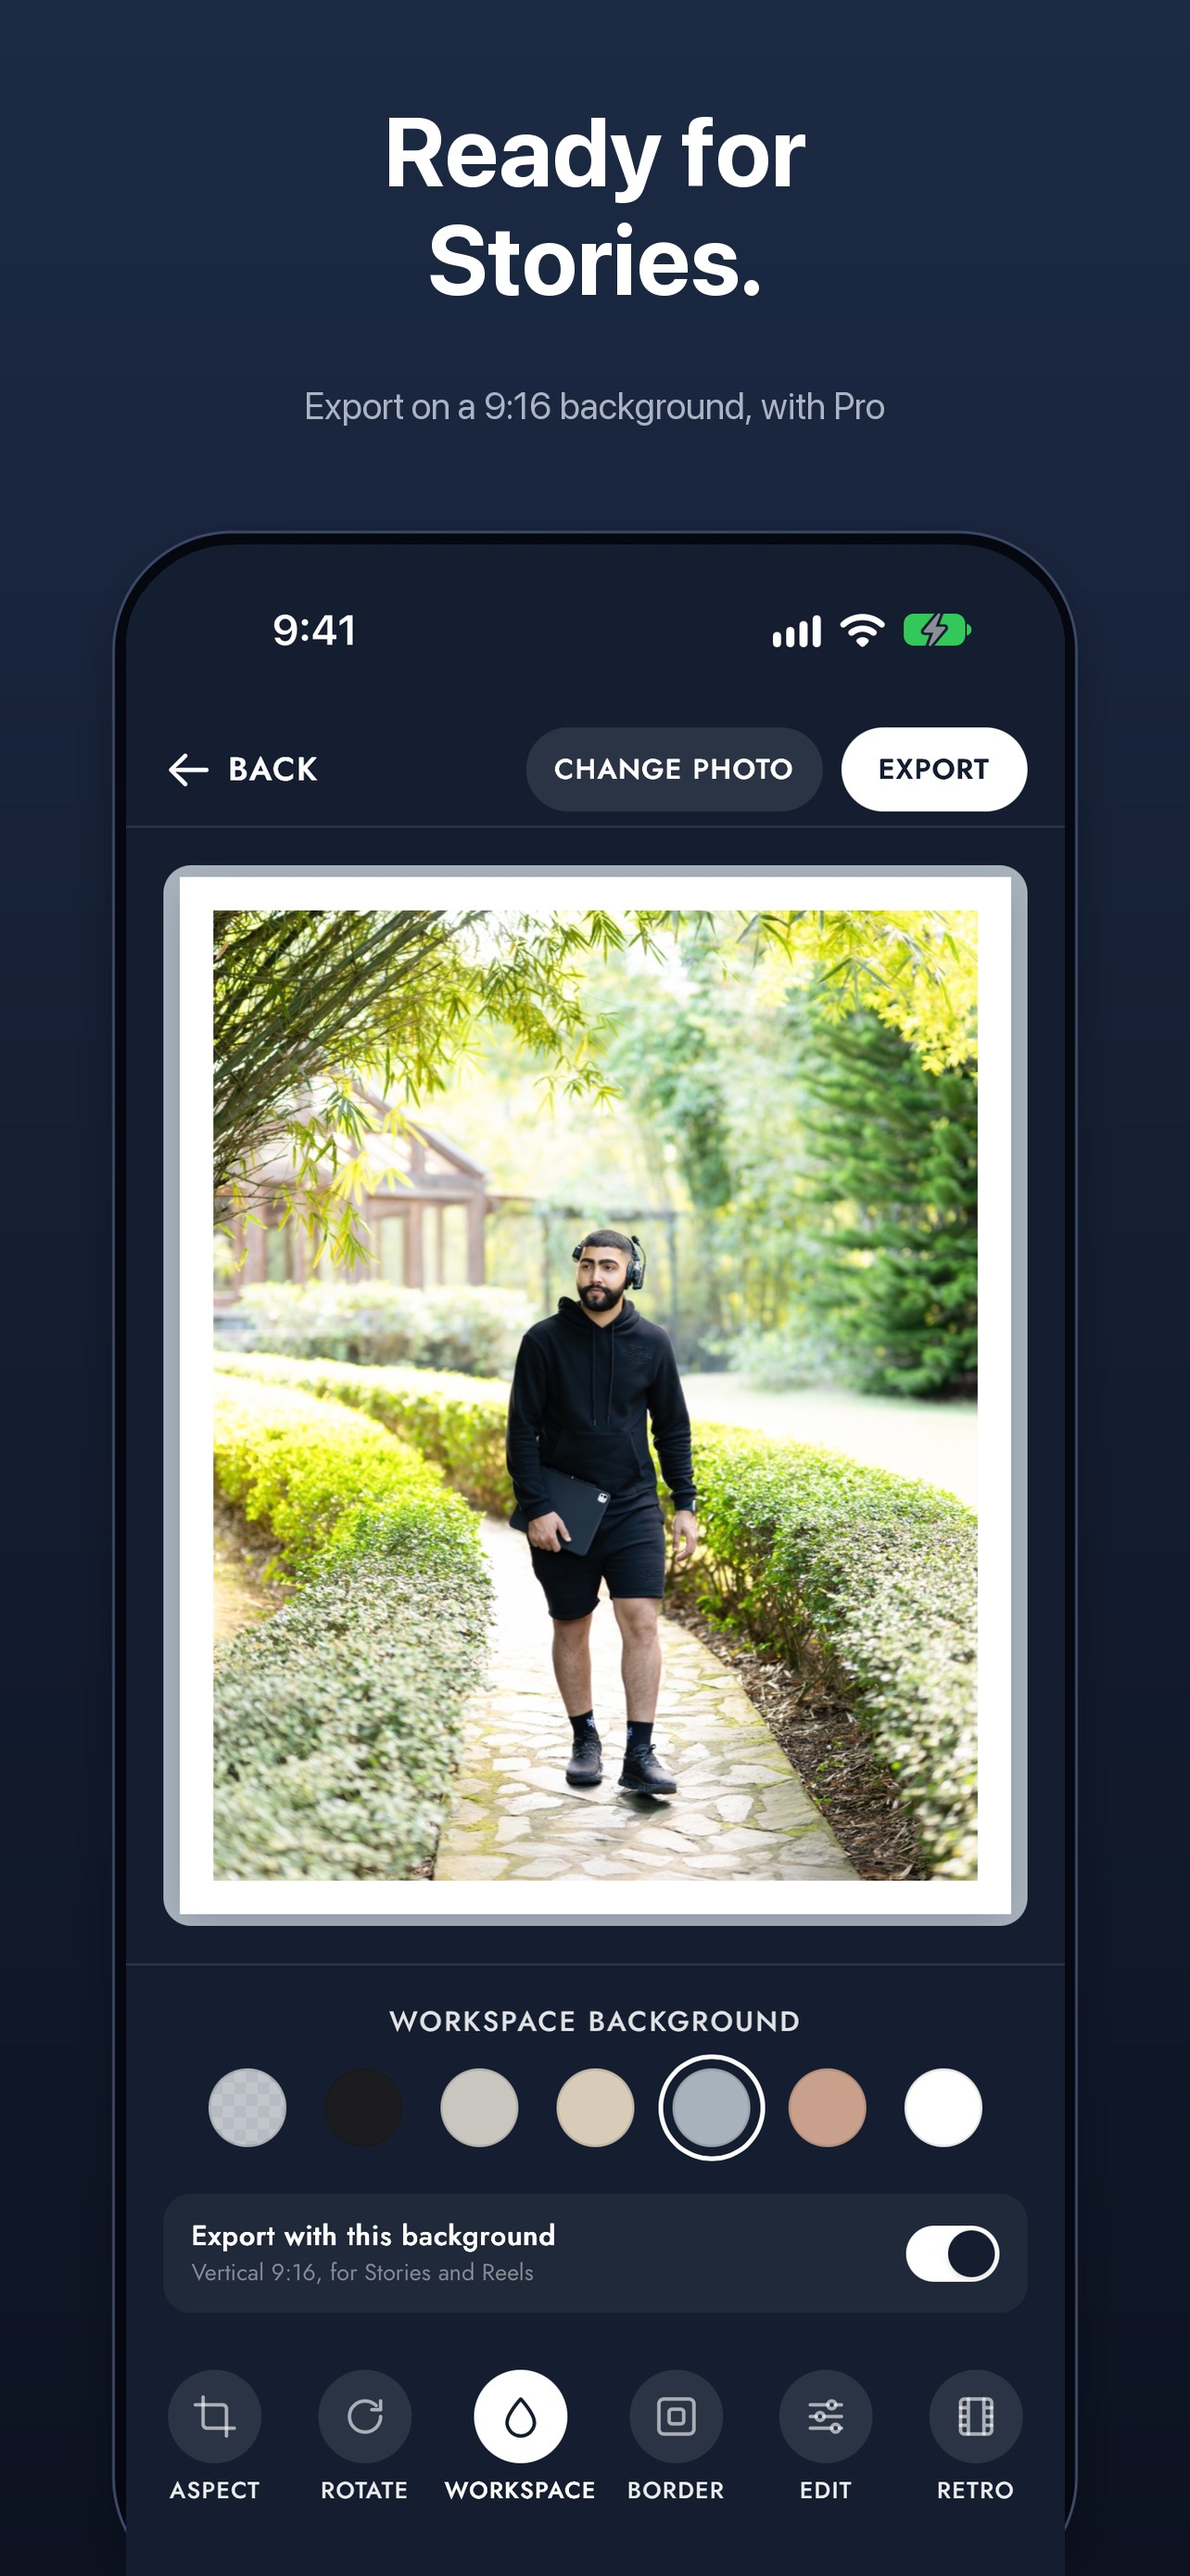
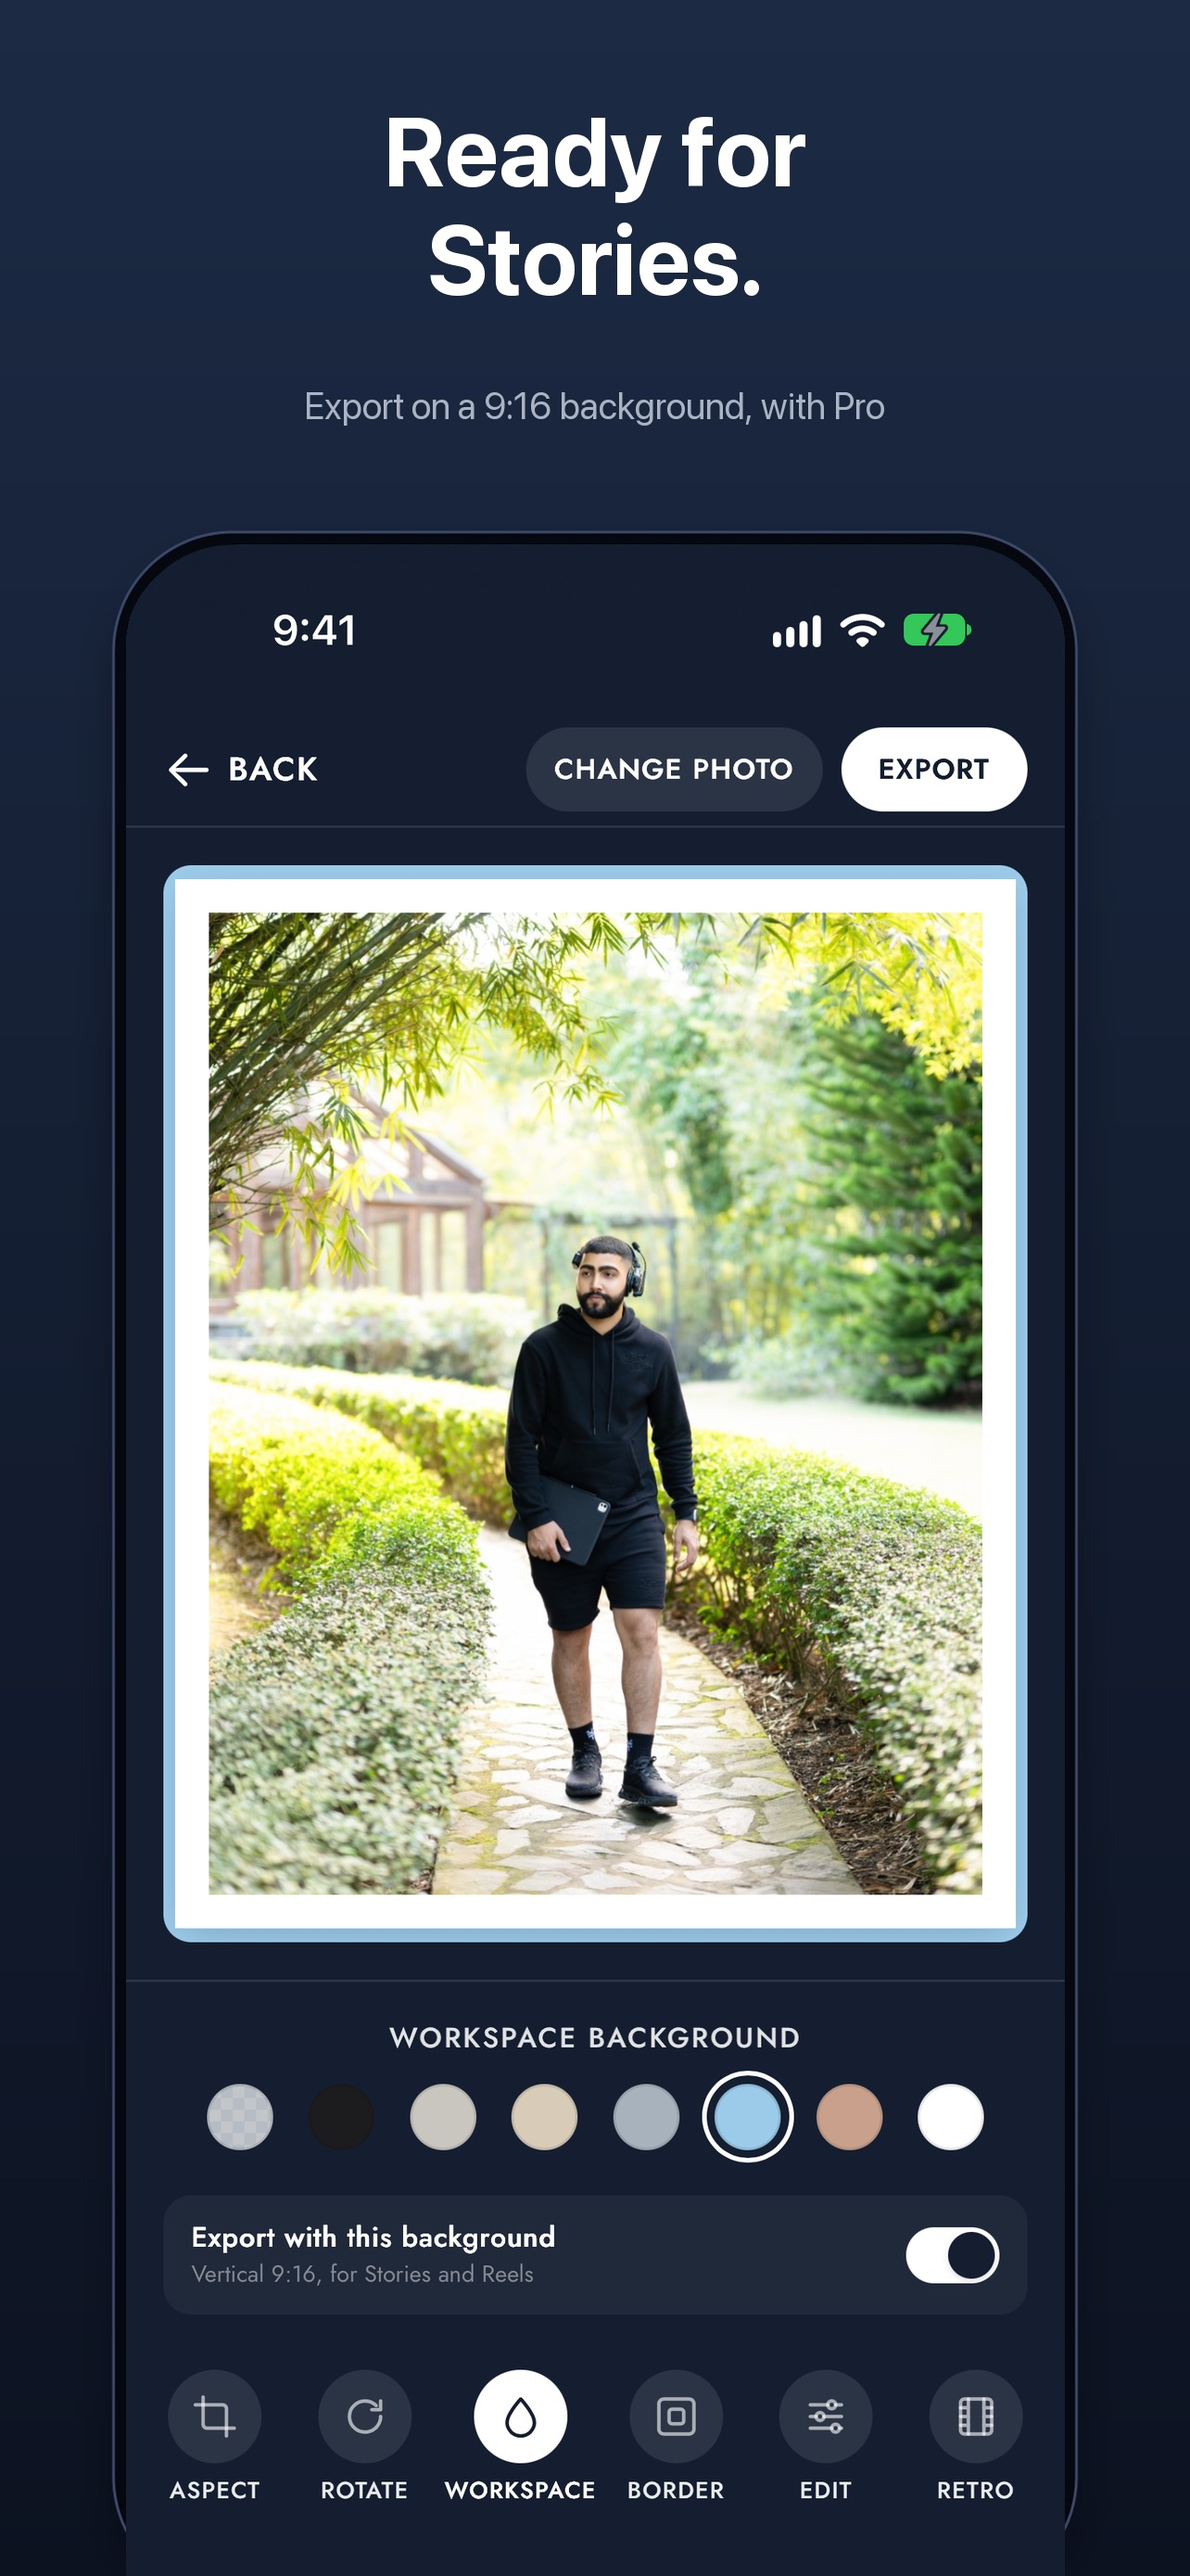
Stories pair in the tour and store screenshots; Sky background; build 24
- New "Sky" workspace background colour.
- Tour: "Ready for Stories" (the toggle switching on over sky blue)
  followed by "Here's how it looks" (the finished 9:16 Story).
- Store screenshots: the same pair, the second composed from the
  export geometry onto sky blue.

diff --git a/src/components/WelcomeTour.tsx b/src/components/WelcomeTour.tsx
@@ -180,15 +180,69 @@ function RetroArt() {
   )
 }
 
-/** A finished photo on a 9:16 story background that keeps changing colour,
- *  over the export qualities. */
+/** Sky blue — the "Cielo" workspace background the Stories cards show. */
+const SKY = '#9ccbea'
+
+/** The Fondo panel in miniature: the photo on the sky-blue workspace, the
+ *  colour picked, and "Export with this background" switching on. */
+function StoryToggleArt() {
+  const tr = useTranslation()
+  const swatches = ['#1c1c1e', '#c9c6c0', '#d8cbb8', '#a7b2bd', SKY, '#c9a08c', '#ffffff']
+  return (
+    <div className="flex h-full w-full flex-col items-center justify-center gap-3">
+      <div className="flex aspect-[4/5] w-[62%] items-center justify-center rounded-xl shadow-2xl shadow-black/40" style={{ backgroundColor: SKY }}>
+        <Print name="garden" className="aspect-[4/5] w-[72%]" />
+      </div>
+      <div className="flex gap-1.5">
+        {swatches.map((c) => (
+          <span
+            key={c}
+            className={`h-5 w-5 rounded-full border border-black/10 ${c === SKY ? 'ring-2 ring-white ring-offset-2 ring-offset-ink-900' : ''}`}
+            style={{ backgroundColor: c }}
+          />
+        ))}
+      </div>
+      <div className="flex w-[78%] items-center justify-between gap-3 rounded-xl bg-white/5 px-3 py-2">
+        <span className="flex flex-col">
+          <span className="font-label text-[11px] font-semibold text-white">{tr.pickers.exportWithBackground}</span>
+          <span className="font-label text-[9px] text-white/45">{tr.pickers.exportWithBackgroundHint}</span>
+        </span>
+        <span className="tour-switch relative h-5 w-9 shrink-0 rounded-full">
+          <span className="tour-knob absolute top-0.5 h-4 w-4 rounded-full shadow" />
+        </span>
+      </div>
+    </div>
+  )
+}
+
+/** What comes out: a 9:16 Story, sky-blue background all round the photo,
+ *  with a Story's progress bars along the top. */
+function StoryResultArt() {
+  return (
+    <div className="flex h-full w-full items-center justify-center">
+      <div
+        className="tour-rise relative flex aspect-[9/16] h-[92%] items-center justify-center overflow-hidden rounded-2xl shadow-2xl shadow-black/60 ring-1 ring-white/10"
+        style={{ backgroundColor: SKY }}
+      >
+        <div className="absolute inset-x-2.5 top-2.5 flex gap-1">
+          {[1, 0.55, 0].map((fill, i) => (
+            <span key={i} className="h-0.5 flex-1 overflow-hidden rounded-full bg-white/45">
+              <span className="block h-full bg-white" style={{ width: `${fill * 100}%` }} />
+            </span>
+          ))}
+        </div>
+        <Print name="garden" pad="4%" className="aspect-[4/5] w-[91%]" />
+      </div>
+    </div>
+  )
+}
+
+/** A finished print over the three export qualities, the Pro one marked. */
 function ExportArt() {
   const tr = useTranslation()
   return (
-    <div className="flex h-full w-full flex-col items-center justify-center gap-4">
-      <div className="tour-story flex aspect-[9/16] h-[78%] items-center justify-center rounded-xl shadow-2xl shadow-black/50">
-        <Print name="evening" className="aspect-[4/5] w-[86%]" />
-      </div>
+    <div className="flex h-full w-full flex-col items-center justify-center gap-5">
+      <Print name="evening" className="aspect-[4/5] w-[58%]" />
       <div className="flex gap-1.5">
         {[tr.quality.native.label, tr.quality.high.label, tr.quality.web.label].map((q, i) => (
           <span
@@ -213,6 +267,8 @@ const ART: ReactNode[] = [
   <EditArt key="e" />,
   <DetailArt key="d" />,
   <RetroArt key="r" />,
+  <StoryToggleArt key="st" />,
+  <StoryResultArt key="sr" />,
   <ExportArt key="x" />,
 ]
 

diff --git a/src/lib/translations.ts b/src/lib/translations.ts
@@ -106,6 +106,14 @@ export const translations = {
           body: 'Our own film looks — warm portrait film, soft pastels, grainy black and white — previewed on your photo, at the strength you choose.',
         },
         {
+          title: 'Ready for Stories',
+          body: 'Pick a background colour and turn on “Export with this background”: your photo comes out vertical 9:16, ready for Stories and Reels.',
+        },
+        {
+          title: 'Here’s how it looks',
+          body: 'Your photo and its border, centred on the background — nothing cropped, at full quality.',
+        },
+        {
           title: 'Export at full quality',
           body: 'Save at your camera’s native resolution, or lighter for sharing. With Pro: maximum quality, Edit, Retro, any border colour, a 9:16 background for Stories and batches of up to 15.',
         },
@@ -279,6 +287,7 @@ export const translations = {
       pearl: 'Pearl',
       beige: 'Beige',
       mist: 'Mist',
+      sky: 'Sky',
       terracotta: 'Terracotta',
       checkered: 'No background',
     },
@@ -380,6 +389,14 @@ export const translations = {
         {
           title: 'Estilos Retro',
           body: 'Looks de película creados por nosotros — retrato cálido, pasteles suaves, blanco y negro con grano — vistos sobre tu foto, con la intensidad que quieras.',
+        },
+        {
+          title: 'Listo para Historias',
+          body: 'Elige un color de fondo y activa «Exportar con este fondo»: tu foto sale en vertical 9:16, lista para Historias y Reels.',
+        },
+        {
+          title: 'Así queda',
+          body: 'Tu foto con su borde, centrada sobre el fondo — sin recortes y en máxima calidad.',
         },
         {
           title: 'Exporta en máxima calidad',
@@ -555,6 +572,7 @@ export const translations = {
       pearl: 'Perla',
       beige: 'Beige',
       mist: 'Bruma',
+      sky: 'Cielo',
       terracotta: 'Terracota',
       checkered: 'Sin fondo',
     },

diff --git a/src/index.css b/src/index.css
@@ -269,35 +269,66 @@ textarea {
   animation: tour-dial 3.6s ease-out infinite;
 }
 
-/* The 9:16 background cycling through the workspace colours. */
-@keyframes tour-story {
+/* "Export with this background" switching on, holding, and resetting. */
+@keyframes tour-switch {
   0%,
+  20% {
+    background-color: rgba(255, 255, 255, 0.2);
+  }
+  30%,
   100% {
-    background-color: #a7b2bd;
-  }
-  25% {
-    background-color: #d8cbb8;
-  }
-  50% {
-    background-color: #c9a08c;
-  }
-  75% {
-    background-color: #1c1c1e;
+    background-color: #ffffff;
   }
 }
 
-.tour-story {
-  animation: tour-story 8s ease-in-out infinite;
+@keyframes tour-knob {
+  0%,
+  20% {
+    left: 2px;
+    background-color: #ffffff;
+  }
+  30%,
+  100% {
+    left: 18px;
+    background-color: #151d30;
+  }
+}
+
+.tour-switch {
+  animation: tour-switch 3.4s ease-in-out infinite;
+}
+
+.tour-knob {
+  animation: tour-knob 3.4s ease-in-out infinite;
+}
+
+/* The finished Story arriving. */
+@keyframes tour-rise {
+  0% {
+    opacity: 0;
+    transform: translateY(18px) scale(0.96);
+  }
+  14%,
+  100% {
+    opacity: 1;
+    transform: translateY(0) scale(1);
+  }
+}
+
+.tour-rise {
+  animation: tour-rise 5s cubic-bezier(0.22, 1, 0.36, 1) infinite both;
 }
 
 @media (prefers-reduced-motion: reduce) {
+  .tour-switch,
+  .tour-knob,
+  .tour-rise,
   .tour-breathe,
   .tour-split,
   .tour-divider,
   .tour-float,
   .tour-pop,
-  .tour-dial,
-  .tour-story {
+  .tour-dial {
     animation: none;
   }
 }

diff --git a/src/lib/workspaceBackgrounds.ts b/src/lib/workspaceBackgrounds.ts
@@ -18,6 +18,7 @@ export const WORKSPACE_BACKGROUNDS: WorkspaceBackgroundOption[] = [
   { id: 'pearl', label: 'Pearl', hex: '#c9c6c0' },
   { id: 'beige', label: 'Beige', hex: '#d8cbb8' },
   { id: 'mist', label: 'Mist', hex: '#a7b2bd' },
+  { id: 'sky', label: 'Sky', hex: '#9ccbea' },
   { id: 'terracotta', label: 'Terracotta', hex: '#c9a08c' },
   { id: 'white', label: 'White', hex: '#ffffff' },
 ]

diff --git a/src/lib/shots.ts b/src/lib/shots.ts
@@ -124,7 +124,7 @@ async function run(scene: (typeof SCENES)[number]) {
   }
 
   if (scene === 'story') {
-    editor().setWorkspaceBackground('mist')
+    editor().setWorkspaceBackground('sky')
     editor().setBorderExportWithBackground(true)
     await tool('Workspace')
   }

diff --git a/docs/screenshots/v1.2/compose.py b/docs/screenshots/v1.2/compose.py
@@ -5,7 +5,7 @@ device frame — repaints the headline area from the background's own gradient,
 writes the new headline, and drops a fresh simulator capture into the frame's
 screen. Captures come from the app's screenshots mode (src/lib/shots.ts).
 
-    python3 compose.py <captures dir with iphone/ and ipad/> <out dir>
+    python3 compose.py <captures dir with iphone/ and ipad/> <out dir> <story photo>
 """
 import sys
 from pathlib import Path
@@ -41,8 +41,48 @@ SHOTS = [
     ('4_edit', 'edit', ['Edit every', 'photo.'], 'Light, colour, grain and sharpness, with Pro'),
     ('5_retro', 'retro', ['Film looks,', 'your way.'], 'Eleven Retro styles, with Pro'),
     ('6_story', 'story', ['Ready for', 'Stories.'], 'Export on a 9:16 background, with Pro'),
-    ('7_layouts', 'layouts', ['A layout for', 'every set.'], 'Grids and creative templates'),
+    ('7_story_result', None, ['Post it', 'as it is.'], '9:16, background included'),
+    ('8_layouts', 'layouts', ['A layout for', 'every set.'], 'Grids and creative templates'),
 ]
+
+SKY = (156, 203, 234)
+STORY_MARGIN = 0.045
+BORDER = 0.04
+
+
+def story_export(photo: Image.Image, width: int) -> Image.Image:
+    """What "Export with this background" makes: the photo cropped 4:5 in a
+    white border, centred on a 9:16 sky-blue canvas with a margin all round —
+    the same geometry as exportImage.ts."""
+    height = round(width * 16 / 9)
+    canvas = Image.new('RGB', (width, height), SKY)
+    framed_w = round(width * (1 - 2 * STORY_MARGIN))
+    framed_h = round(framed_w * 5 / 4)
+    border = round(BORDER * framed_w)
+    inner = (framed_w - 2 * border, framed_h - 2 * border)
+    src = photo.convert('RGB')
+    scale = max(inner[0] / src.width, inner[1] / src.height)
+    src = src.resize((round(src.width * scale), round(src.height * scale)), Image.LANCZOS)
+    left, top = (src.width - inner[0]) // 2, (src.height - inner[1]) // 2
+    src = src.crop((left, top, left + inner[0], top + inner[1]))
+    framed = Image.new('RGB', (framed_w, framed_h), (255, 255, 255))
+    framed.paste(src, (border, border))
+    canvas.paste(framed, ((width - framed_w) // 2, (height - framed_h) // 2))
+    return canvas
+
+
+def story_screen(spec: dict, photo: Image.Image, img_height: int) -> Image.Image:
+    """The finished Story as it looks opened on the device: full width, on black."""
+    left, top, right, bottom = spec['screen']
+    w = right - left
+    h = (bottom or img_height) - top
+    screen = Image.new('RGB', (w, h), (0, 0, 0))
+    story = story_export(photo, w)
+    # Centred in the device's full screen height, not just the visible part.
+    full_h = round(w * (2622 / 1206 if bottom is None else 2752 / 2064))
+    y = max(0, (full_h - story.height) // 2)
+    screen.paste(story, (0, y))
+    return screen
 
 
 def font(size: int, weight: str) -> ImageFont.FreeTypeFont:
@@ -84,14 +124,18 @@ def place_screen(img: Image.Image, spec: dict, capture: Image.Image) -> None:
 
 
 def main() -> None:
-    captures, out = Path(sys.argv[1]), Path(sys.argv[2])
+    captures, out, story_photo = Path(sys.argv[1]), Path(sys.argv[2]), Path(sys.argv[3])
     out.mkdir(parents=True, exist_ok=True)
     for device, spec in DEVICES.items():
         for name, capture, title, subtitle in SHOTS:
             img = Image.open(spec['template']).convert('RGB')
             repaint_header(img, spec['header_until'])
             write_header(img, spec, title, subtitle)
-            place_screen(img, spec, Image.open(captures / device / f'{capture}.png'))
+            if capture:
+                shot = Image.open(captures / device / f'{capture}.png')
+            else:
+                shot = story_screen(spec, Image.open(story_photo), img.height)
+            place_screen(img, spec, shot)
             img.save(out / f'{device}_{name}.jpg', quality=92)
             print('wrote', device, name)
     # The finished-collage close-up has no editor UI in it, so the 1.1 one
@@ -100,8 +144,8 @@ def main() -> None:
     img = Image.open(OLD / 'iphone_8_ready.jpg').convert('RGB')
     repaint_header(img, spec['header_until'])
     write_header(img, spec, ['Ready to post.'], 'Exported at full resolution')
-    img.save(out / 'iphone_8_ready.jpg', quality=92)
-    print('wrote iphone 8_ready')
+    img.save(out / 'iphone_9_ready.jpg', quality=92)
+    print('wrote iphone 9_ready')
 
 
 if __name__ == '__main__':
